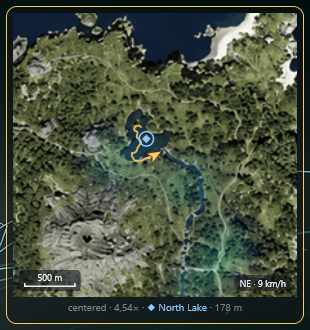
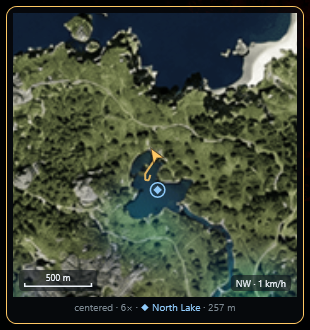
README: widget screenshots retaken on a dark background
The Prime tracker, Activity feed, minimap and stats panel crops come from
a shot over dark terrain, so the panels read cleanly; the control panel
keeps the earlier crop (both had grass across the hint line, the earlier
one less). Alt texts follow the new images.

diff --git a/README.md b/README.md
@@ -81,7 +81,7 @@ The pasted cookie is encrypted with **Windows DPAPI** (scoped to your Windows us
 
 ### Stats panel
 
-![The stats panel in edit mode: a fully grown male Deinosuchus, the four stat bars — health, stamina, hunger at 13% with "~15m" left at the fill's tip, thirst — the three dim fracture badges, and the live status line](docs/stats-panel.png)
+![The stats panel in edit mode: a fully grown male Deinosuchus, the four stat bars — health 87%, stamina 76%, hunger 20%, thirst 18% — the three dim fracture badges, and the live status line](docs/stats-panel.png)
 
 - The stats panel can be **hidden** entirely (control panel → Stats → Show/hide) — the app keeps running from the tray, and hotkeys and the minimap stay live. Its size is adjustable with the Scale slider in Settings → Stats panel.
 
@@ -98,7 +98,7 @@ The pasted cookie is encrypted with **Windows DPAPI** (scoped to your Windows us
 
 ### Minimap
 
-![The minimap in edit mode: the player-centered view of a lake shore with the orange player arrow, the breadcrumb trail and a tracked waypoint's ringed diamond, the scale bar and the heading and speed pill in the corners, and the footer showing "centered · 4,54× · ◆ North Lake · 178 m"](docs/minimap.png)
+![The minimap in edit mode: the player-centered view of a lake with the orange player arrow and a tracked waypoint's ringed diamond, the scale bar and the heading and speed pill in the corners, and the footer showing "centered · 6× · ◆ North Lake · 257 m"](docs/minimap.png)
 
 - The **minimap** is a separate window sharing the same edit mode: drag it independently, show or hide it from the control panel. Your arrow glides between updates and rotates with your facing. It adds zero extra requests — both windows feed off the same poll.
 - Two views, toggled with the control panel's **Map view** button (or **Ctrl+F5** any time): the whole island (default), or **player-centered** (north-up, the map pans under a fixed arrow). In the centered view the mouse wheel zooms (1.25–6×) while in edit mode. Both the view and zoom are remembered (and also editable in Settings), and the footer under the map always shows the active view (and zoom).
@@ -121,7 +121,7 @@ The pasted cookie is encrypted with **Windows DPAPI** (scoped to your Windows us
 
 ### Prime tracker
 
-![The Prime tracker: "Prime Elder" status, the ten conditions as a ✓/✗ list, and the footer showing "Checked 15:25 · Deinosuchus" with the "next check in 4:17" countdown](docs/prime-tracker.png)
+![The Prime tracker: "Prime Elder" status, the ten conditions as a ✓/✗ list, and the footer showing "Checked 16:01 · Deinosuchus" and "check available"](docs/prime-tracker.png)
 
 - The **Prime tracker** is a third widget (docked to the left screen edge by default, draggable like the others) showing your Prime status and the server's ten Prime conditions as a ✓/✗ list — the same result as the website's "Prime Check" box. 5 of 10 are needed for Prime.
 - It never checks by itself. Press **Ctrl+F8** any time (rebindable in Settings), or **Check** in the control panel's Prime group. The server enforces a cooldown between checks — 5 minutes normally, shorter with some supporter ranks — so after each check the overlay asks the server for *your* cooldown, counts it down in the widget, and remembers it across restarts. A click during the cooldown sends nothing. You need to be spawned in for a check to work.
@@ -130,7 +130,7 @@ The pasted cookie is encrypted with **Windows DPAPI** (scoped to your Windows us
 
 ### Activity feed
 
-![The Activity feed: "1 of 3 friends in game" in the header, then the lines "Prime check · 7/10 · Prime Elder", "You spawned as Deinosuchus 100%" and "Hunger under 20%" with orange dots, fading with age, and "In game: Zoro (Tyrannosaurus)" at the bottom](docs/activity-feed.png)
+![The Activity feed: "1 of 3 friends in game" in the header, then "In game: Zoro" and the lines "Thirst under 20%" and "Hunger under 20%" with orange dots](docs/activity-feed.png)
 
 - The **Activity widget** (a fourth panel, docked under the Prime tracker by default) is a feed of the last ten minutes: each line reports something that just happened, newest at the top, fading as it ages. Every other cue on the overlay is momentary — the growth readout blinks, a chime plays once — so this is the one you can read after a fight or when you come back to the keyboard. With friends' events included, its header also says how many friends you have and how many are in game.
 - **Your friends' events** (on by default): a friend spawned in ("spawned as Deinosuchus 42%"), left the game, started a fresh dino of the same species, switched dino, reached a growth stage, took a fracture, came within 200 m of you, or joined or left your list. Several friends leaving at once (a server restart) become one line, and "left the game" is worded neutrally on purpose — from outside, a logout, a restart and a death look the same.
